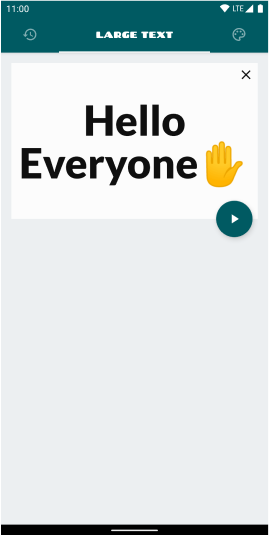
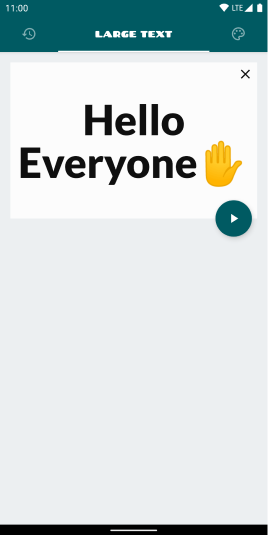
updated: images

diff --git a/index.html b/index.html
@@ -119,7 +119,7 @@
 
         <div class="col-md">
           <div class="container mx-auto mt-4">
-            <img src="img/hand-phone-2.svg">
+            <img src="img/hand-phone-2.png">
             <p class="mt-4 hand-phone-description">  Ordering a drink at a loud bar </p>
           </div>
         </div>

diff --git a/css/custom.css b/css/custom.css
@@ -37,7 +37,7 @@ section {
     font-family: Chango;
     font-style: normal;
     font-weight: normal;
-    font-size: 46px;
+    font-size: 36px;
     line-height: 60px;
 
     /* or 130% */
